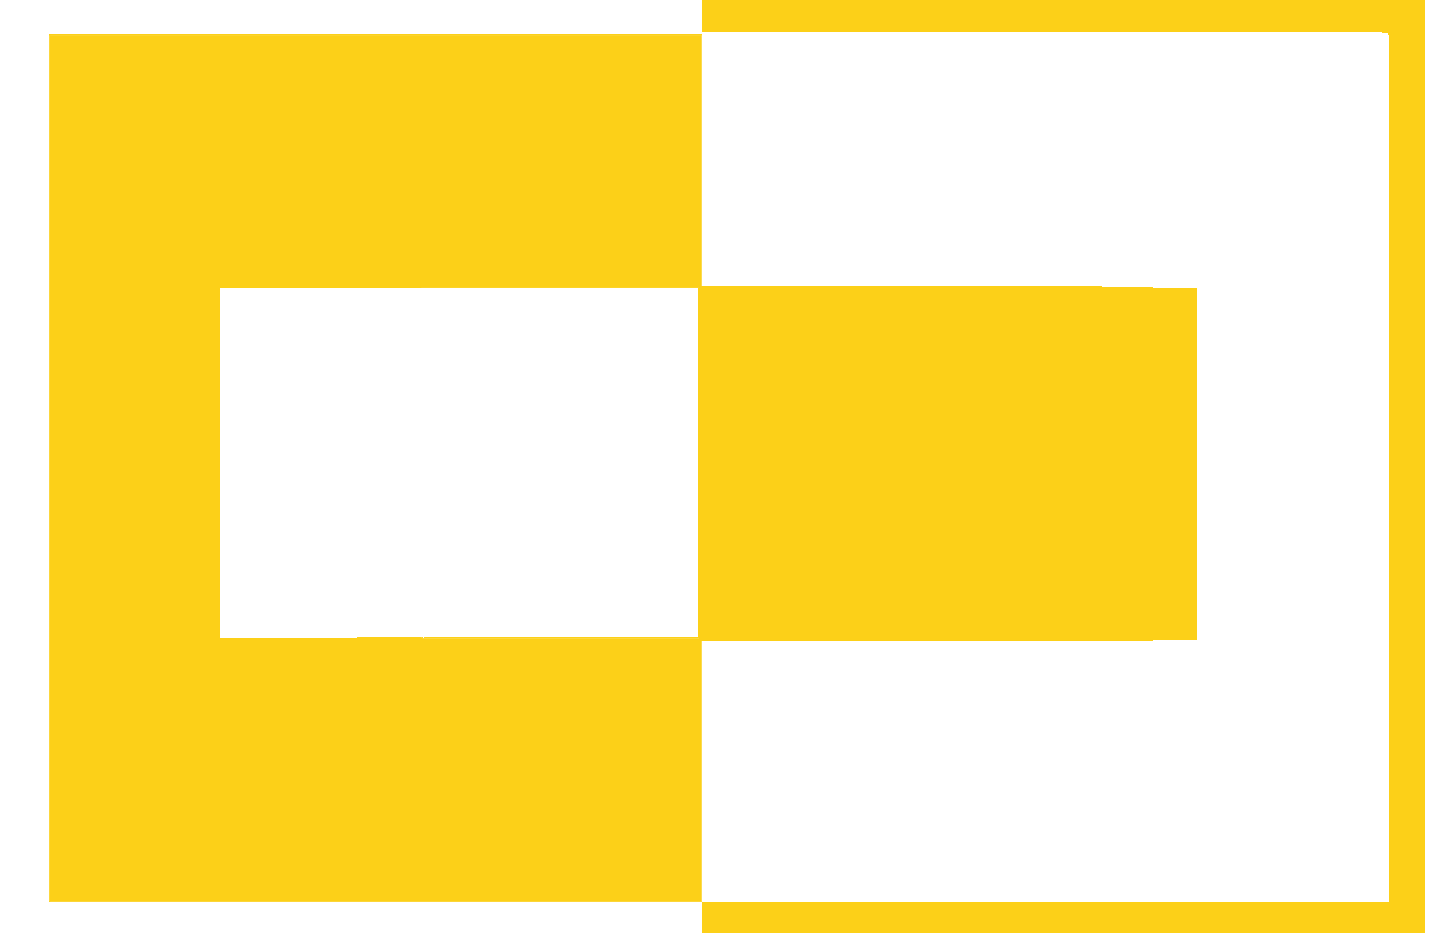
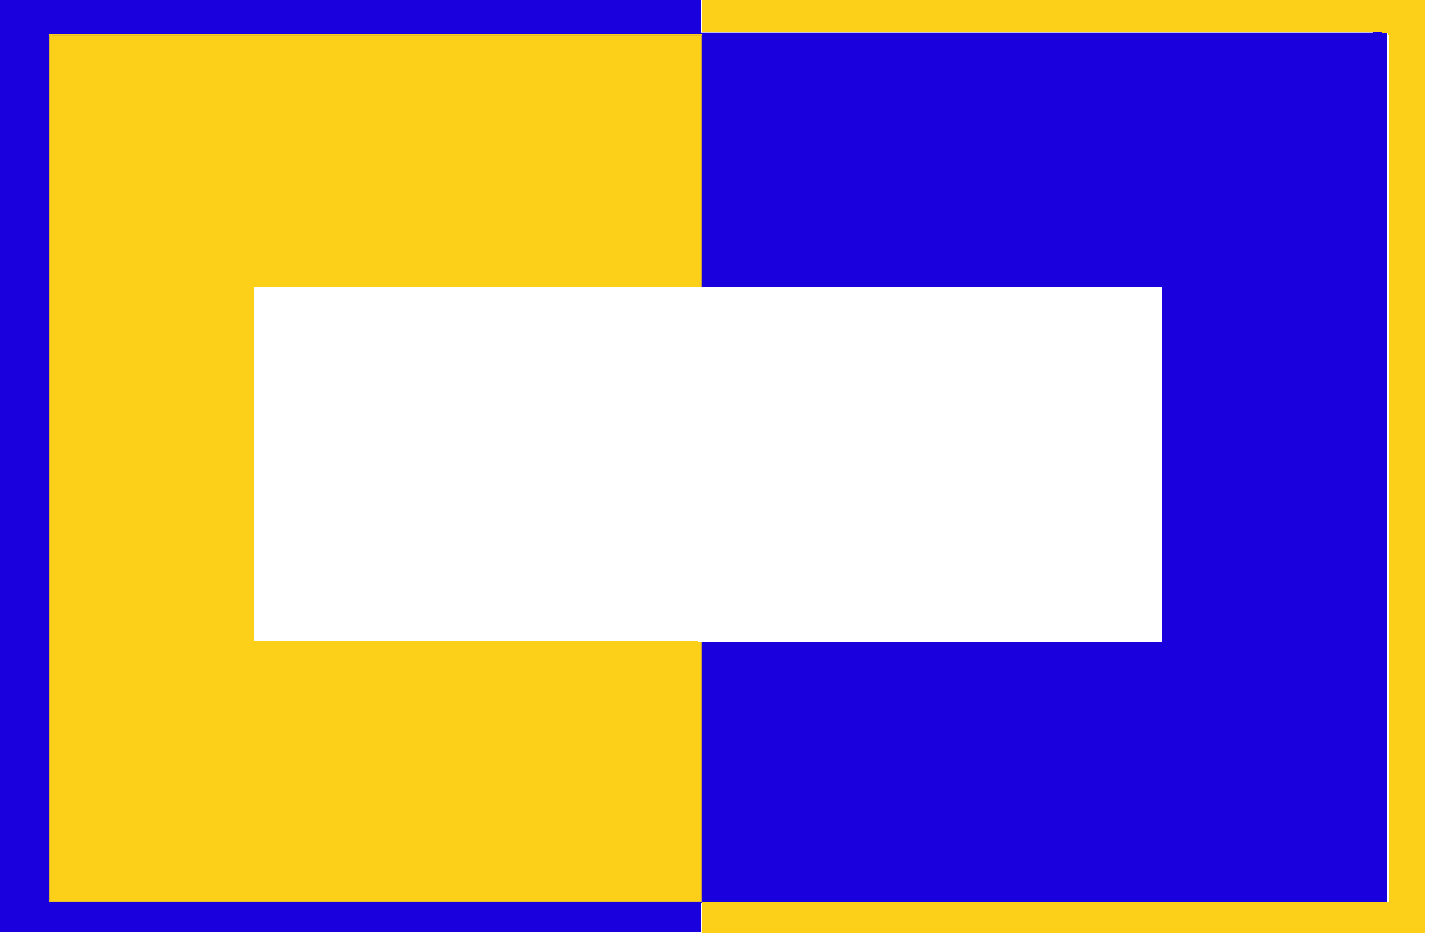
header painting

diff --git a/layouts/partials/body-top.html b/layouts/partials/body-top.html
@@ -1,0 +1,48 @@
+{{ if .Site.Params.googleTagManager }}
+  <!-- Google Tag Manager (noscript) -->
+  <noscript><iframe src="https://www.googletagmanager.com/ns.html?id={{ .Site.Params.googleTagManager }}"
+  height="0" width="0" style="display:none;visibility:hidden"></iframe></noscript>
+  <!-- End Google Tag Manager (noscript) -->
+{{ end }}
+
+{{ if .IsHome }}
+  <header class="row middle-xs center-xs">
+    <div class="col-xs-12">
+      <div class="row middle-xs center-xs">
+        <div class="col-xs-12"><img {{ if .Site.Params.lazyLoading }}data-src="{{ .Site.Params.logoBig }}" lazyload="on"{{ else }}src="{{ .Site.Params.logoBig }}"{{ end }} alt="{{ .Site.Title }}" class="home-logo {{ if .Site.Params.lazyLoading }}lazyload{{ end }}"></div>
+      </div>
+      <div class="row middle-xs center-xs">
+        <div class="col-xs-12">
+          <h1>{{ .Site.Params.tagline }}<span class="cursor"></span></h1>
+        </div>
+      </div>
+    </div>
+  </header>
+{{ end }}
+
+<nav class="row middle-xs center-xs">
+  <div class="col-xs-6 col-sm-1 logo">
+    <a href="{{ "#" | relLangURL }}"><img {{ if .Site.Params.lazyLoading }}data-src="{{ .Site.Params.logoSmall }}" class="lazyload" lazyload="on"{{ else }}src="{{ .Site.Params.logoSmall }}"{{ end }} alt="{{ .Site.Title }}"></a>
+  </div>
+    {{ range .Site.Menus.main }}
+      <div class="col-xs-3 col-sm-2">
+        <h3><a href="{{ .URL }}">{{ .Name }}</a></h3>
+      </div>
+    {{ end }}
+  <div class="col-xs-6 col-sm-1 nav-toggle">
+      <a href="" class="nav-icon" onclick="return false">
+        <img {{ if .Site.Params.lazyLoading }}data-src="/images/icon-menu.png" class="lazyload" lazyload="on"{{ else }}src="/images/icon-menu.png"{{ end }} alt="Open Menu">
+        <img {{ if .Site.Params.lazyLoading }}data-src="/images/icon-x.png" class="lazyload" lazyload="on"{{ else }}src="/images/icon-x.png"{{ end }} alt="Close Menu" style="display: none;">
+      </a>
+  </div>
+</nav>
+
+<section class="nav-full row middle-xs center-xs">
+  <div class="col-xs-12">
+    <div class="row middle-xs center-xs">
+      {{ range .Site.Menus.main }}
+        <div class="col-xs-12"><h1><a href="{{ .URL }}">{{ .Name }}</a></h1></div>
+      {{ end }}
+    </div>
+  </div>
+</section>

diff --git a/layouts/partials/css.html b/layouts/partials/css.html
@@ -4,7 +4,29 @@
     background-image: url("images/rotationyellowwhite.png");
     background-repeat: no-repeat;
     background-position: center;
-    background-size: 60%;
+    background-size: 70%;
+    margin-left: 10%
   }
+
+  .home-logo {
+    margin-top: 5%;
+  }
+
+  @media (max-width: 950px) {
+    .home-logo {
+      display: none;
+    }
+
+    header {
+      background-image: url("images/rotationyellowwhite1.png");
+      background-repeat: no-repeat;
+      background-position: center;
+      background-size: 100%;
+      margin-left: 0%
+
+
+    }
+
+}
 
   </style>
